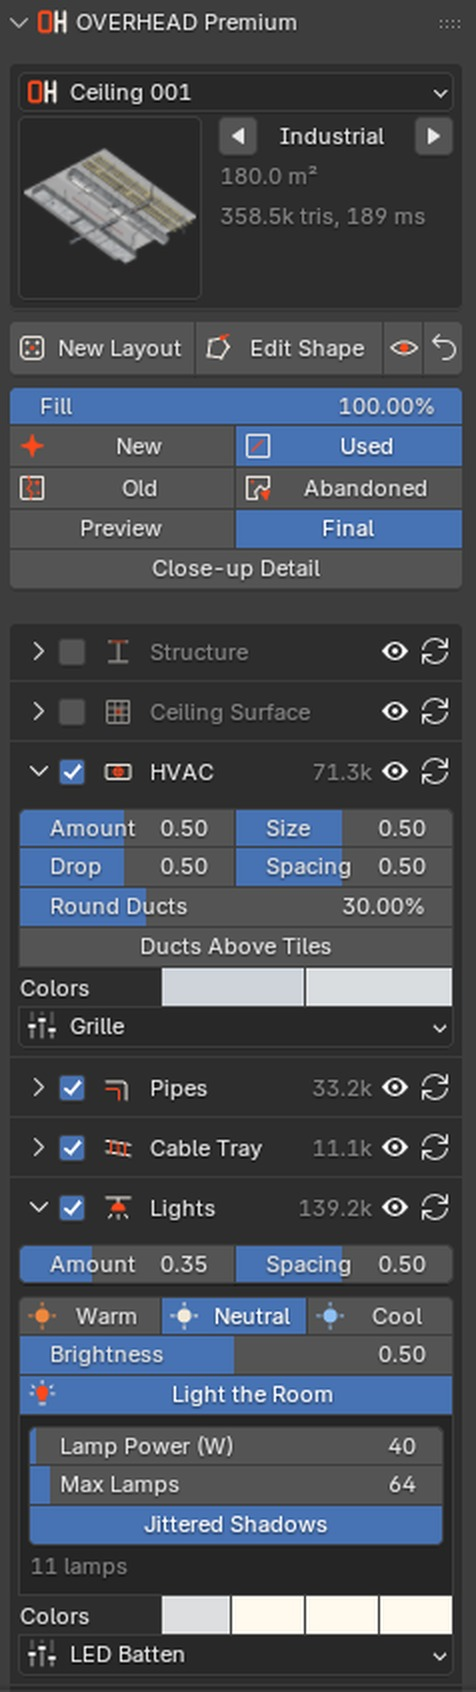
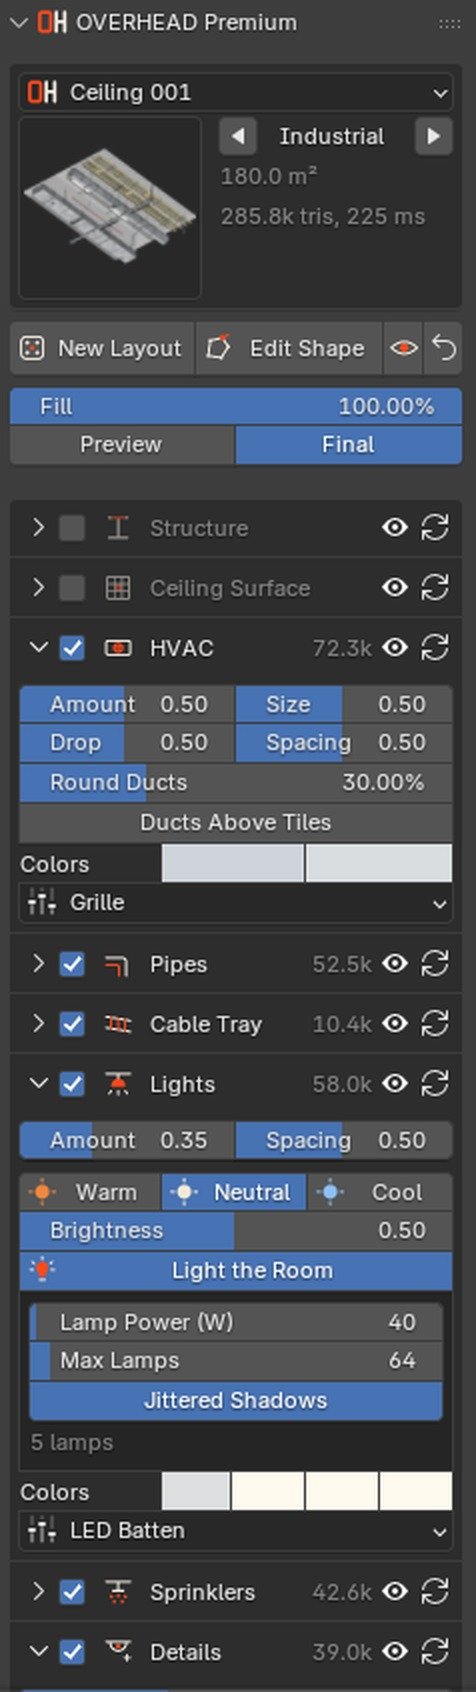
Remove the wear section, new panel picture

diff --git a/index.html b/index.html
@@ -109,7 +109,7 @@
   <div><b>11</b><span class="cap">presets</span></div>
   <div><b>9</b><span class="cap">systems</span></div>
   <div><b>100+</b><span class="cap">fixtures</span></div>
-  <div><b>4</b><span class="cap">wear levels</span></div>
+  <div><b>3</b><span class="cap">editions</span></div>
 </div>
 
 <section class="tile on-ink">
@@ -149,18 +149,6 @@
     <div><img src="img/sys_sprinklers.svg" alt="">Sprinklers</div>
     <div><img src="img/sys_details.svg" alt="">Details</div>
     <div><img src="img/sys_cables.svg" alt="">Loose Cables</div>
-  </div>
-</section>
-
-<section class="tile on-ink">
-  <h2>4 wear levels, from new to abandoned</h2>
-  <div class="pics">
-    <figure><img src="img/wear_new.jpg" alt=""><figcaption class="cap"><b>New</b></figcaption></figure>
-    <figure><img src="img/wear_used.jpg" alt=""><figcaption class="cap"><b>Used</b></figcaption></figure>
-    <figure><img src="img/wear_old.jpg" alt=""><figcaption class="cap"><b>Old</b></figcaption></figure>
-    <figure><img src="img/wear_abandoned.jpg" alt=""><figcaption class="cap"><b>Abandoned</b></figcaption></figure>
-    <figure><img src="img/wear2_new.jpg" alt=""><figcaption class="cap"><b>Office, new</b></figcaption></figure>
-    <figure><img src="img/wear2_abandoned.jpg" alt=""><figcaption class="cap"><b>Office, abandoned</b></figcaption></figure>
   </div>
 </section>
 
